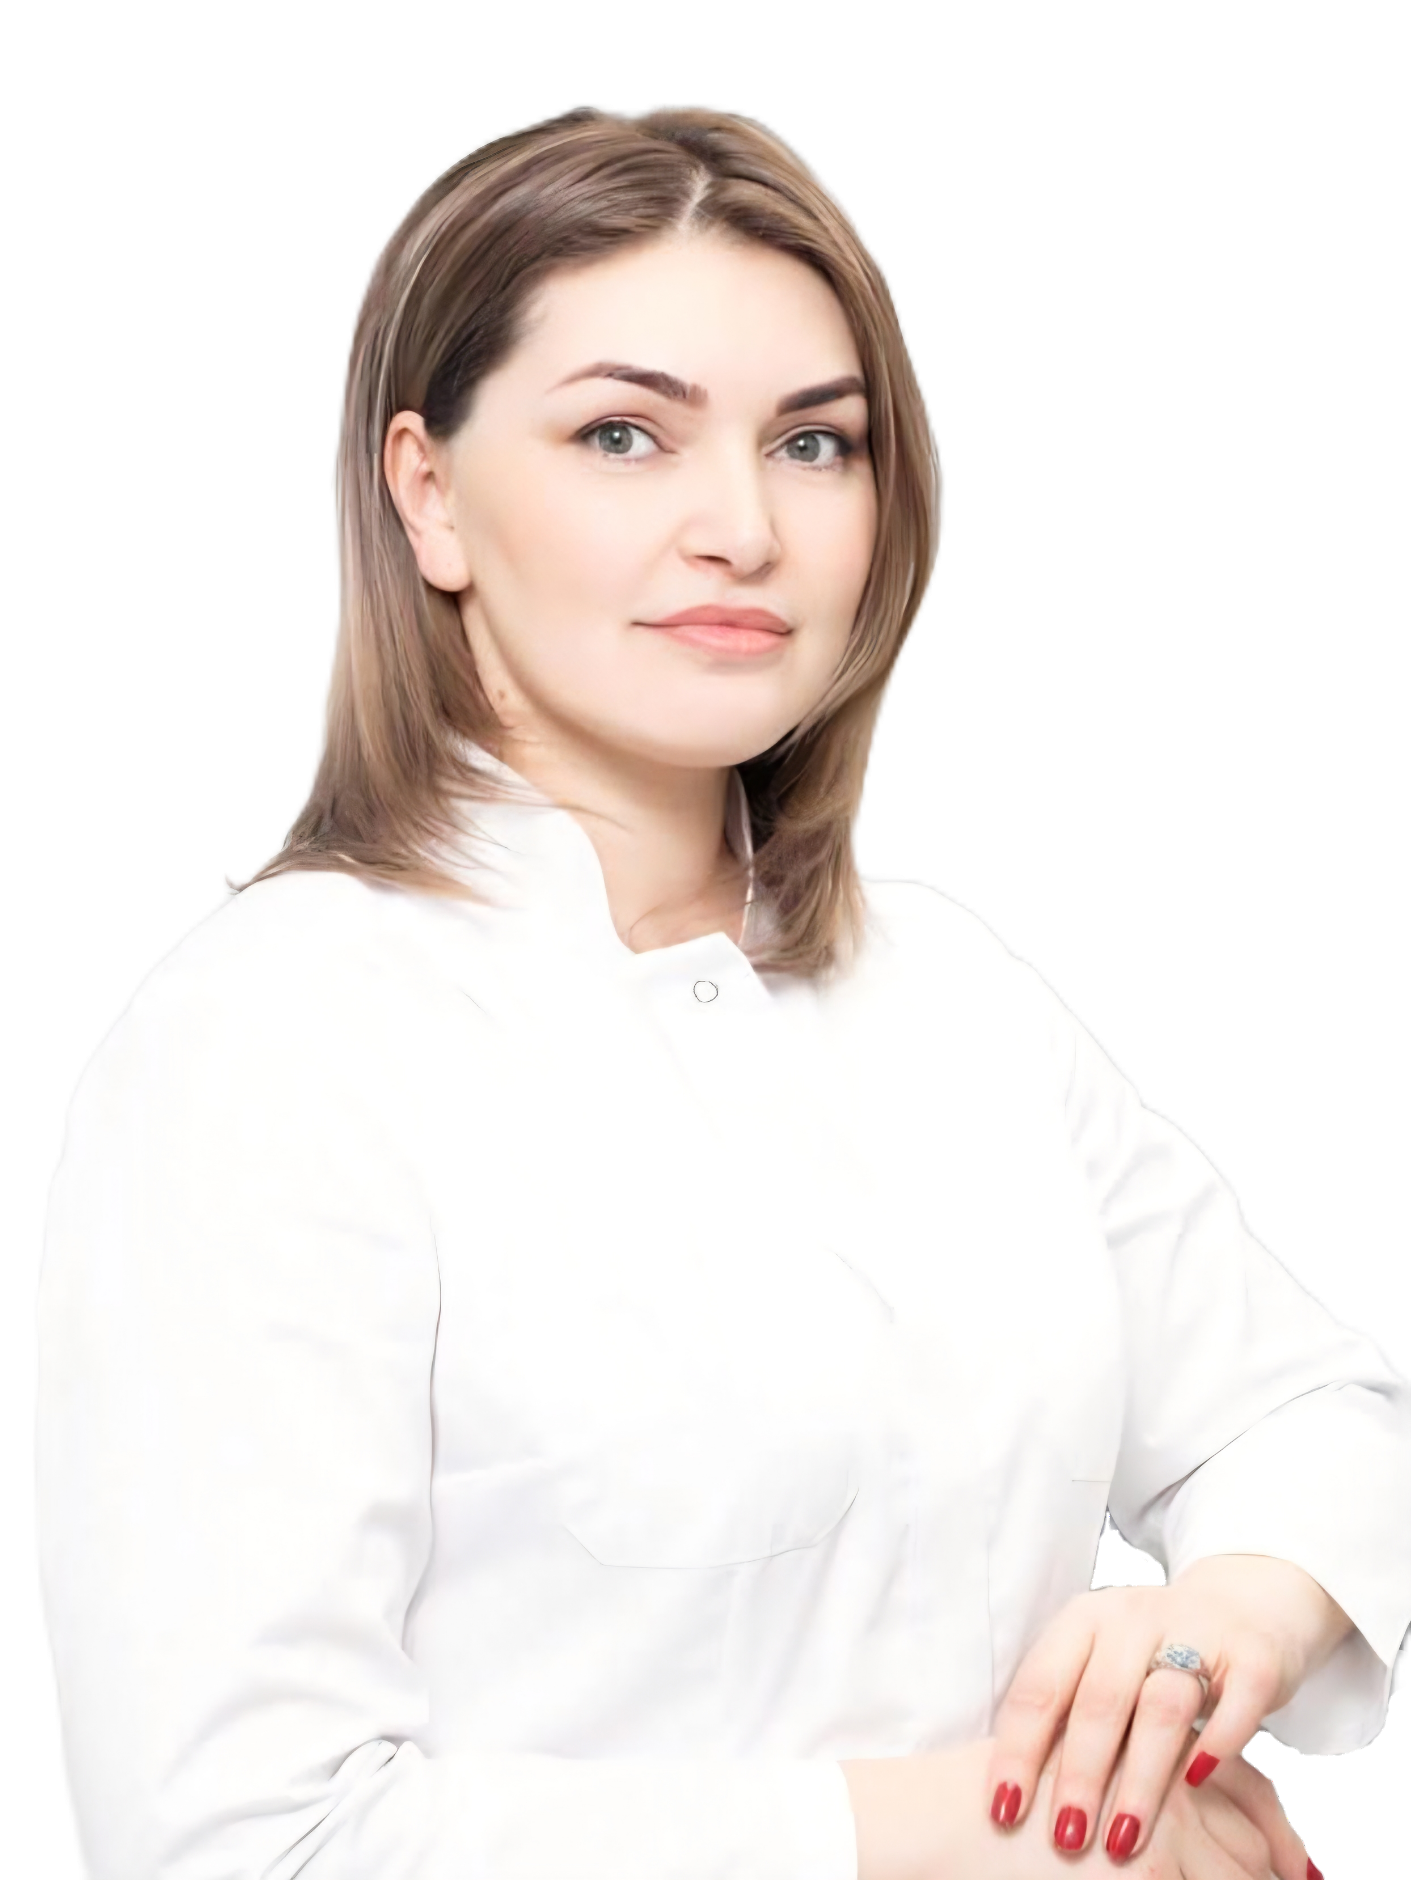
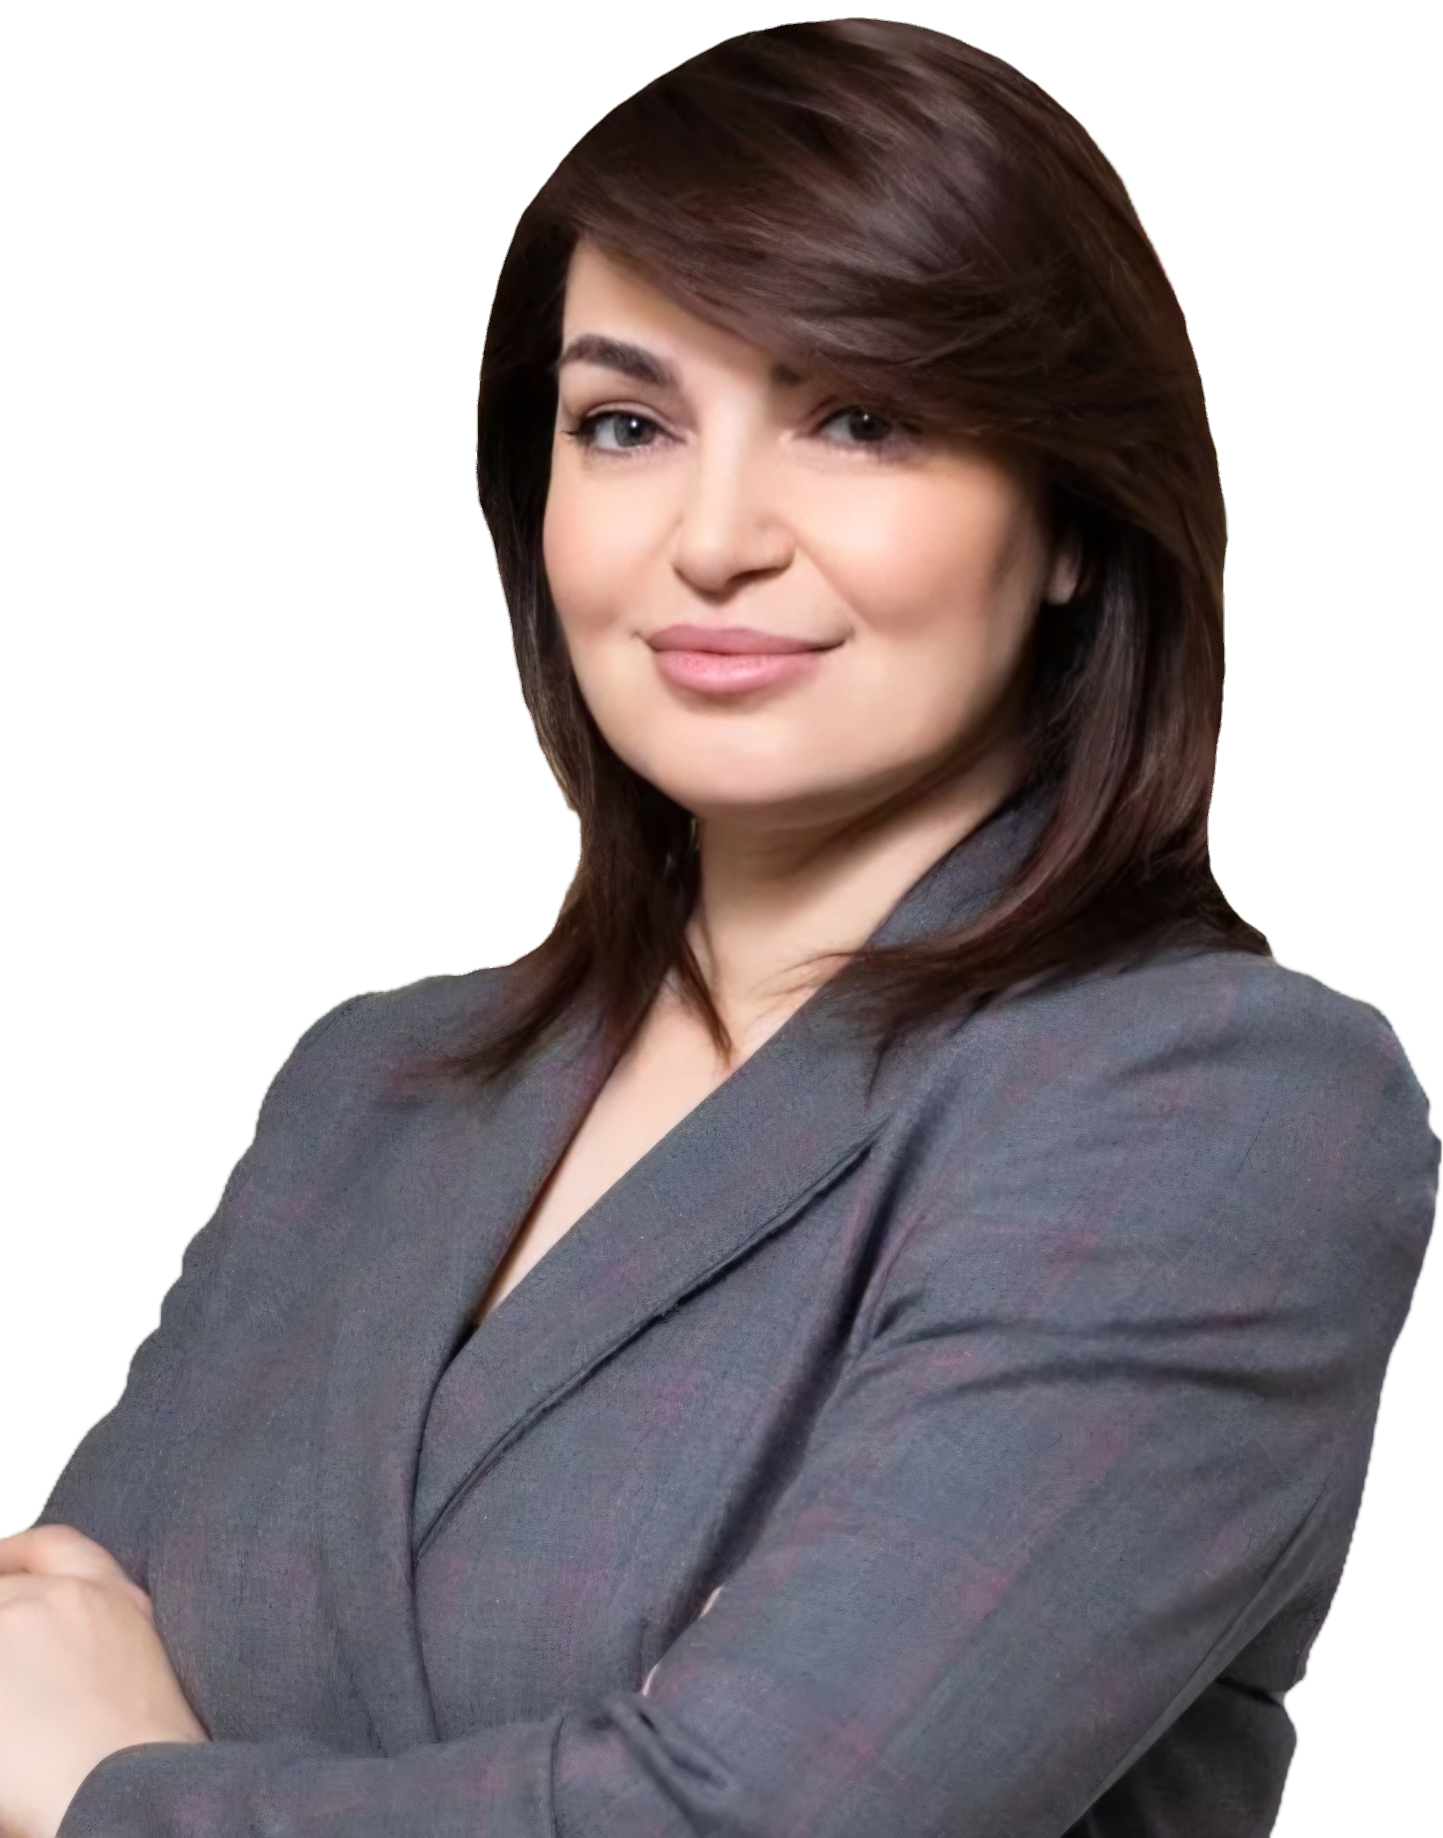
new_speakers2505

diff --git a/src/components/SpeakersSection.vue b/src/components/SpeakersSection.vue
@@ -88,24 +88,44 @@ const speakers = [
   {
     image: '/speaker_7.png',
     name: 'Евгения Черенкова',
-    role: 'Основатель бренда «Северный берег. Эксперт в сфере креативных индустрий, предприниматель',
+    role: 'Основатель бренда «Северный берег». Эксперт в сфере креативных индустрий, предприниматель',
   },
   {
     image: '/speaker_12.webp',
-    name: 'Олейник София Владимировна',
+    name: 'София Олейник',
     role: 'Владелец Центра йоги «Дыши», преподаватель йоги, звукотерапевт. Социальный предприниматель.',
   },
   {
     image: '/speaker_13.webp',
-    name: 'Васильева Екатерина Александровна',
+    name: 'Екатерина Васильева',
     role: 'Основатель бренда «TWO KEI»',
   },
   {
     image: '/speaker_14.webp',
-    name: 'Суровцева Екатерина Юрьевна',
+    name: 'Екатерина Суровцева',
     role: 'Основатель бренда «TWO KEI»',
   },
-  ...Array.from({ length: 11 }, () => ({
+  {
+    image: '/speaker_15.png',
+    name: 'Татьяна Стафеева',
+    role: 'Представитель сети клиник «Labroom» по связям с общественностью',
+  },
+  {
+    image: '/speaker_16.png',
+    name: 'Светлана Усатова',
+    role: 'Провизор, менеджер компетенций "Фармацевтика" и "Индивидуальные фармацевтические решения" Чемпионата "Профессионалы"',
+  },
+  {
+    image: '/speaker_17.png',
+    name: 'Кирилл Мусохранов',
+    role: 'Индивидуальный предприниматель, руководитель гончарной школы «TEXTURA» г. Сургут',
+  },
+  {
+    image: '/speaker_18.png',
+    name: 'Дилара Коршкова',
+    role: 'Руководитель АНО Оздоровительно-досуговый центр "Активная жизнь"',
+  },
+  ...Array.from({ length: 3 }, () => ({
     image: '/speaker_0.png',
     name: 'Анонс',
     role: 'Имя эксперта появится позже',